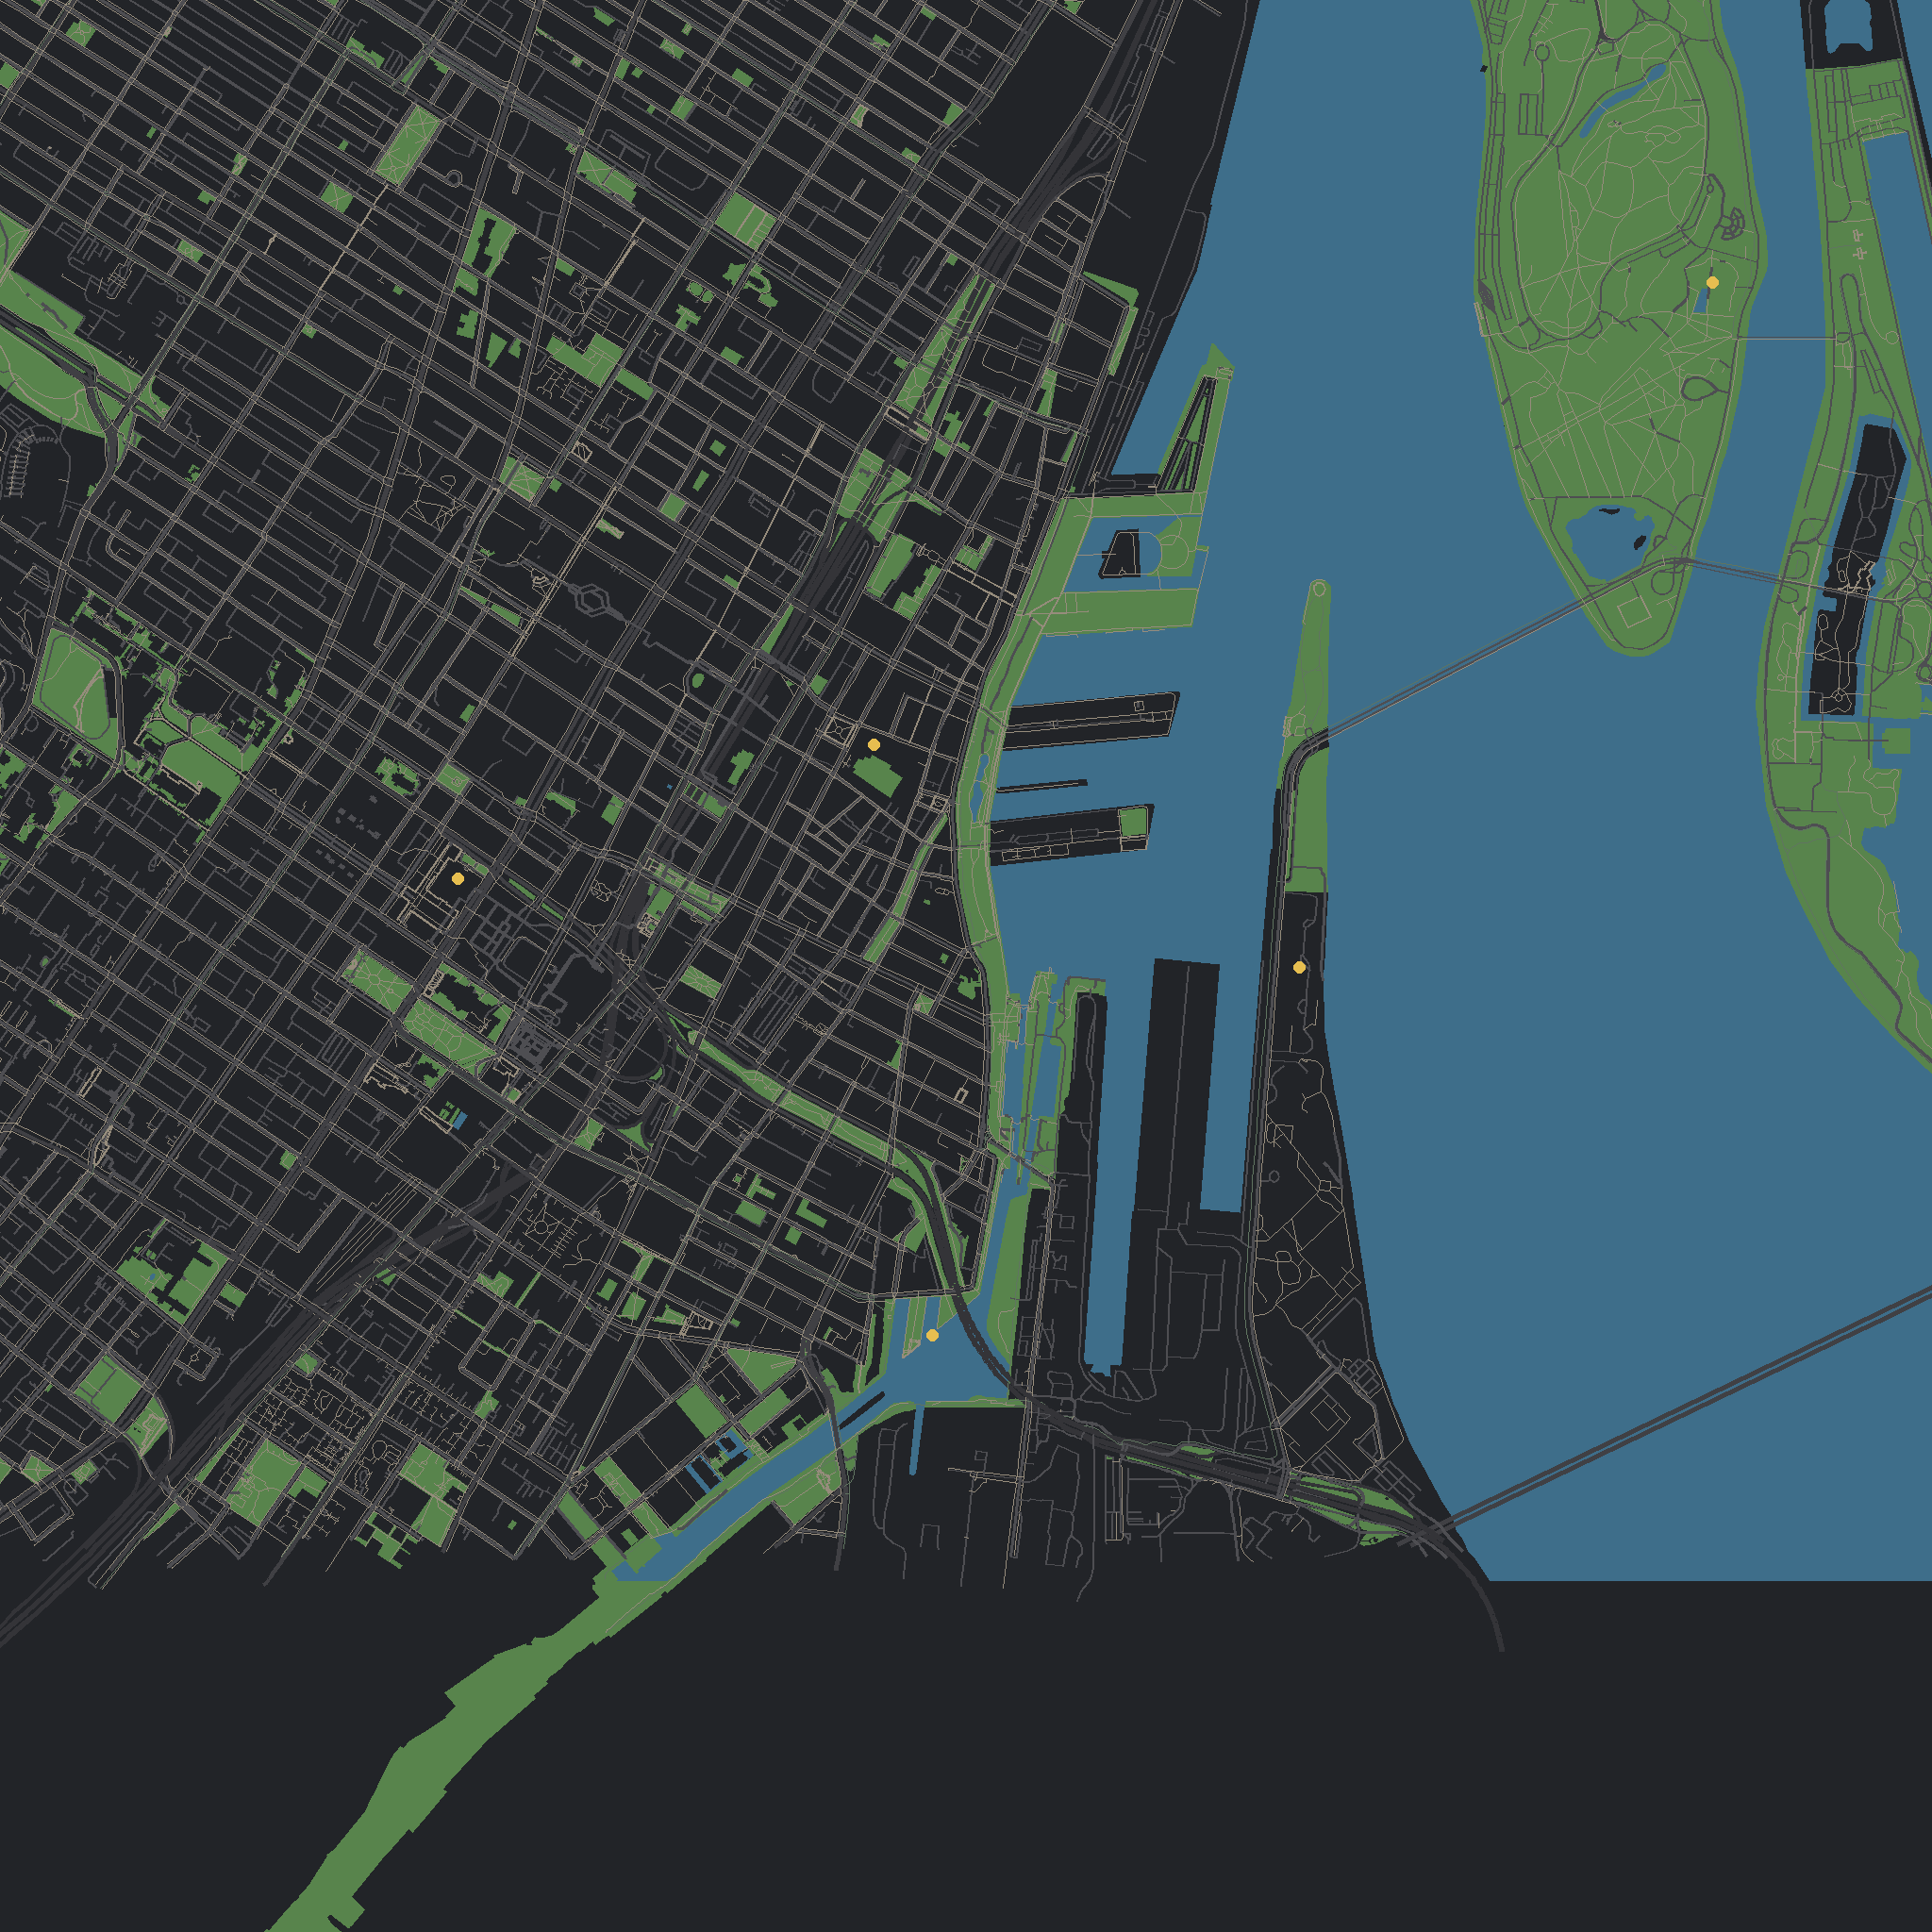
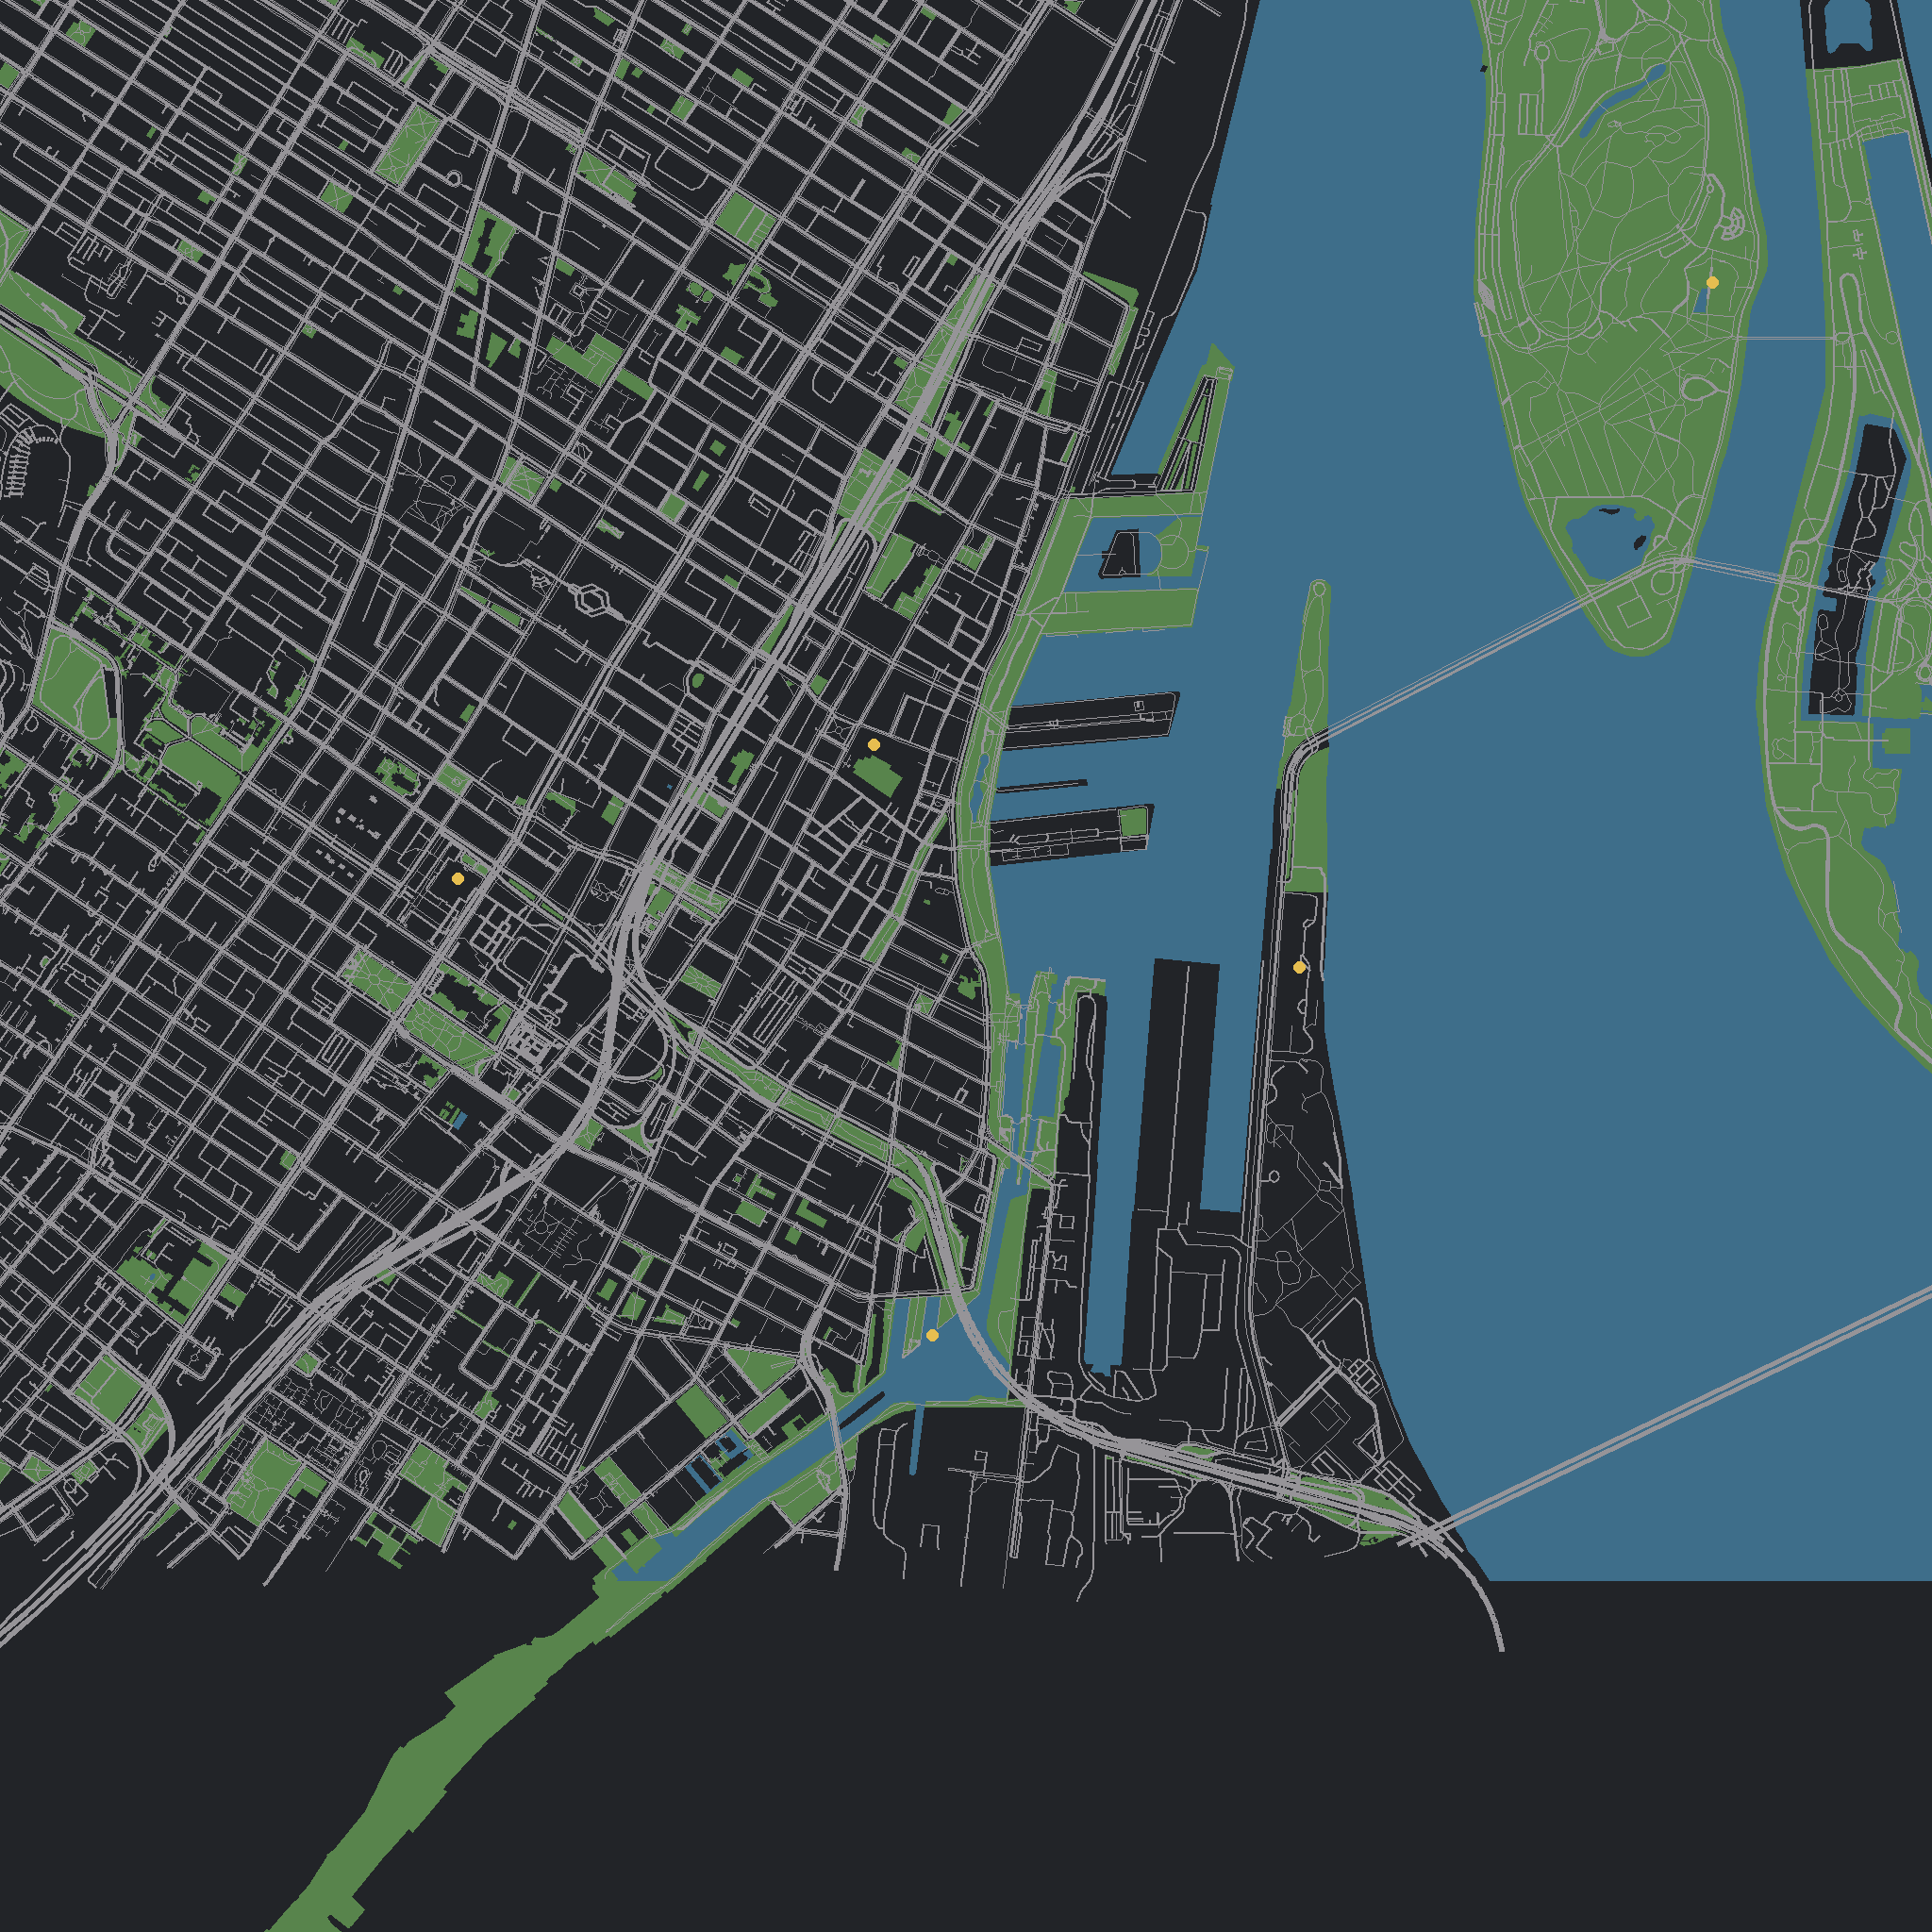
Visual pass fixes: lighter fog, urban terrain blend, legible minimap roads; m3 screenshots

diff --git a/pipeline/minimap.py b/pipeline/minimap.py
@@ -7,6 +7,7 @@ from pipeline.osm_parse import CityData
 
 BG = (34, 36, 40)
 GOLD = (230, 190, 80)
+ROAD = (150, 148, 152)  # light so streets read against the dark background
 
 def render_minimap(city: CityData, out_path: str | Path, size: int = 2048) -> dict:
     s, w, n, e = config.BBOX
@@ -27,9 +28,8 @@ def render_minimap(city: CityData, out_path: str | Path, size: int = 2048) -> di
                 if len(hole) >= 3:
                     d.polygon([px(x, z) for x, z in hole], fill=BG)
     for r in city.roads:
-        color = config.ROAD_COLORS.get(r.road_class, config.DEFAULT_ROAD_COLOR)
         width = max(1, round(r.width * scale))
-        d.line([px(x, z) for x, z in r.points], fill=color, width=width)
+        d.line([px(x, z) for x, z in r.points], fill=ROAD, width=width)
     for lm in config.LANDMARKS:
         cx, cz = px(*latlon_to_xz(lm["lat"], lm["lon"]))
         rr = max(3, size // 340)

diff --git a/pipeline/config.py b/pipeline/config.py
@@ -50,7 +50,7 @@ TERRAIN_STEP = 8.0            # heightmap grid spacing (m)
 TERRAIN_TILE_QUADS = 32       # terrain quads per tile edge (32 -> 2048 tris/tile)
 TERRAIN_COLOR_LOW = (150, 146, 138)   # urban ground
 TERRAIN_COLOR_HIGH = (96, 124, 82)    # wooded slopes
-TERRAIN_COLOR_BLEND = (25.0, 90.0)    # y-range over which low blends to high
+TERRAIN_COLOR_BLEND = (45.0, 110.0)   # y-range over which low blends to high (downtown stays urban)
 TERRAIN_WATER_DROP = 3.0      # terrain depression under water polygons (m)
 TERRAIN_WATER_COLOR = (52, 84, 104)
 MONT_ROYAL_SUMMIT = (45.5063, -73.5872)  # just west of bbox; east flank is in-map